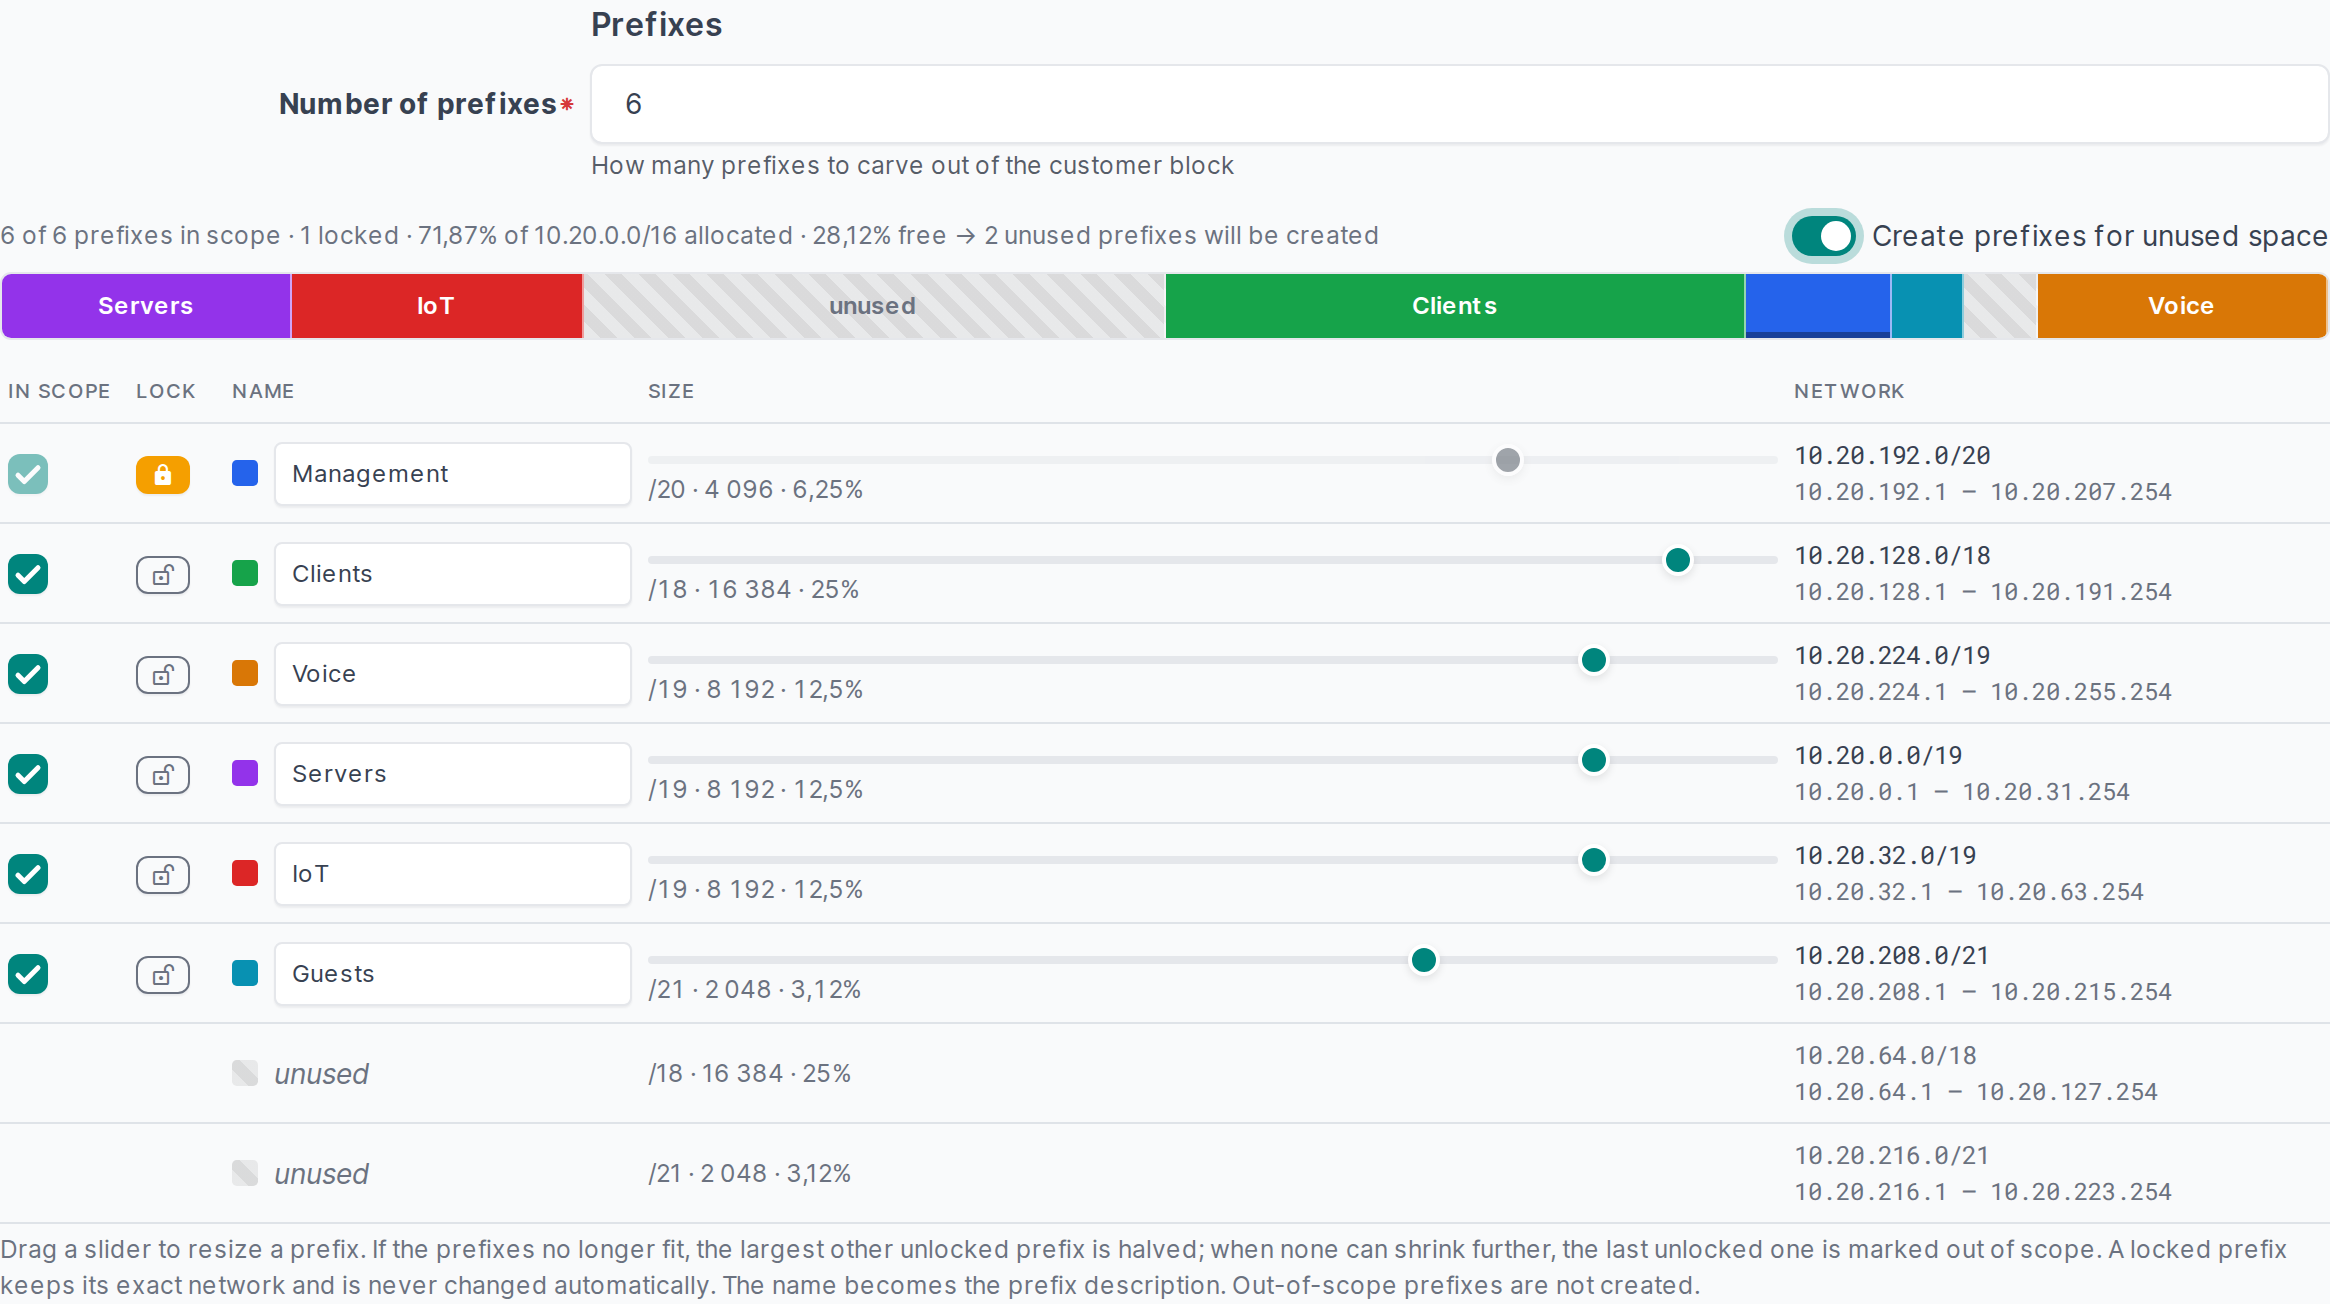
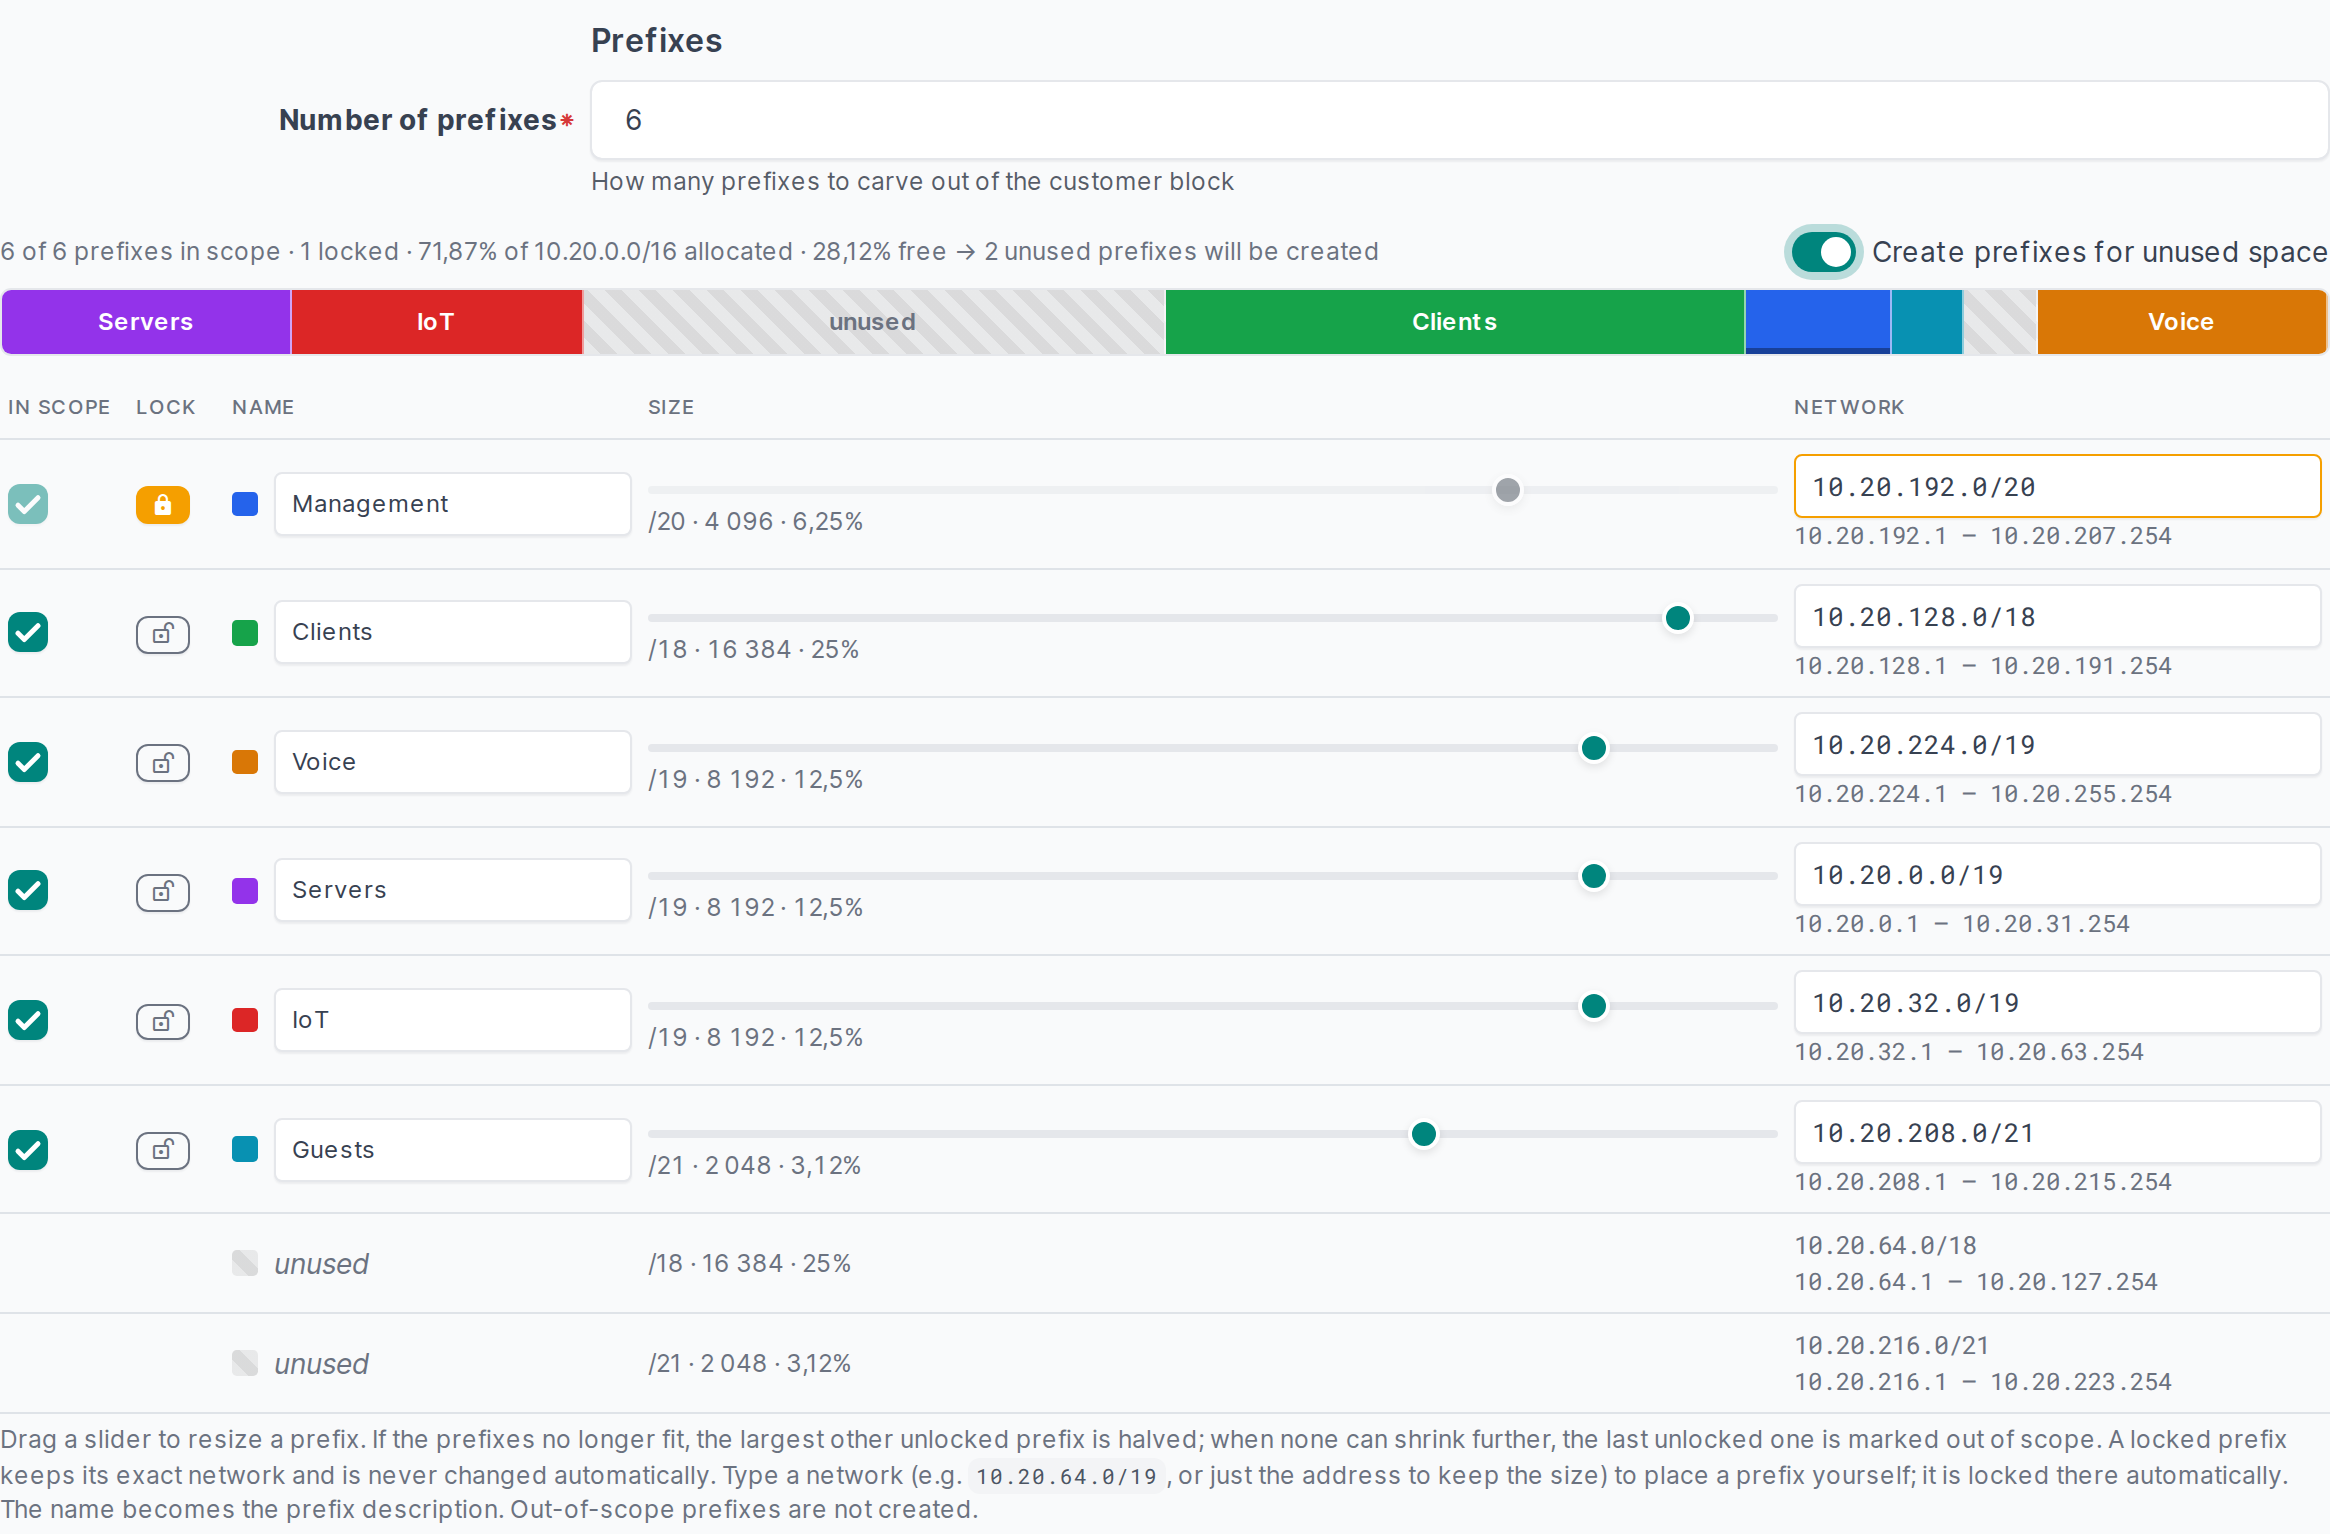
Prefix Planner 0.3.0: release manual network entry

diff --git a/prefix-planner/netbox_prefix_planner/__init__.py b/prefix-planner/netbox_prefix_planner/__init__.py
@@ -1,6 +1,6 @@
 from netbox.plugins import PluginConfig
 
-__version__ = "0.2.0"
+__version__ = "0.3.0"
 
 
 class PrefixPlannerConfig(PluginConfig):

diff --git a/prefix-planner/README.md b/prefix-planner/README.md
@@ -234,7 +234,7 @@ pytest
 
 ## Changelog
 
-- **Unreleased**: type a network in the planner's *Network* column to place and lock a prefix manually.
+- **0.3.0**: type a network in the planner's *Network* column to place and lock a prefix manually.
 - **0.2.0**: REST API (`/api/plugins/prefix-planner/customers/`, including `preview` and `run`).
 - **0.1.0**: first release: slider planner, locks, names, unused space, provisioning job.
 
